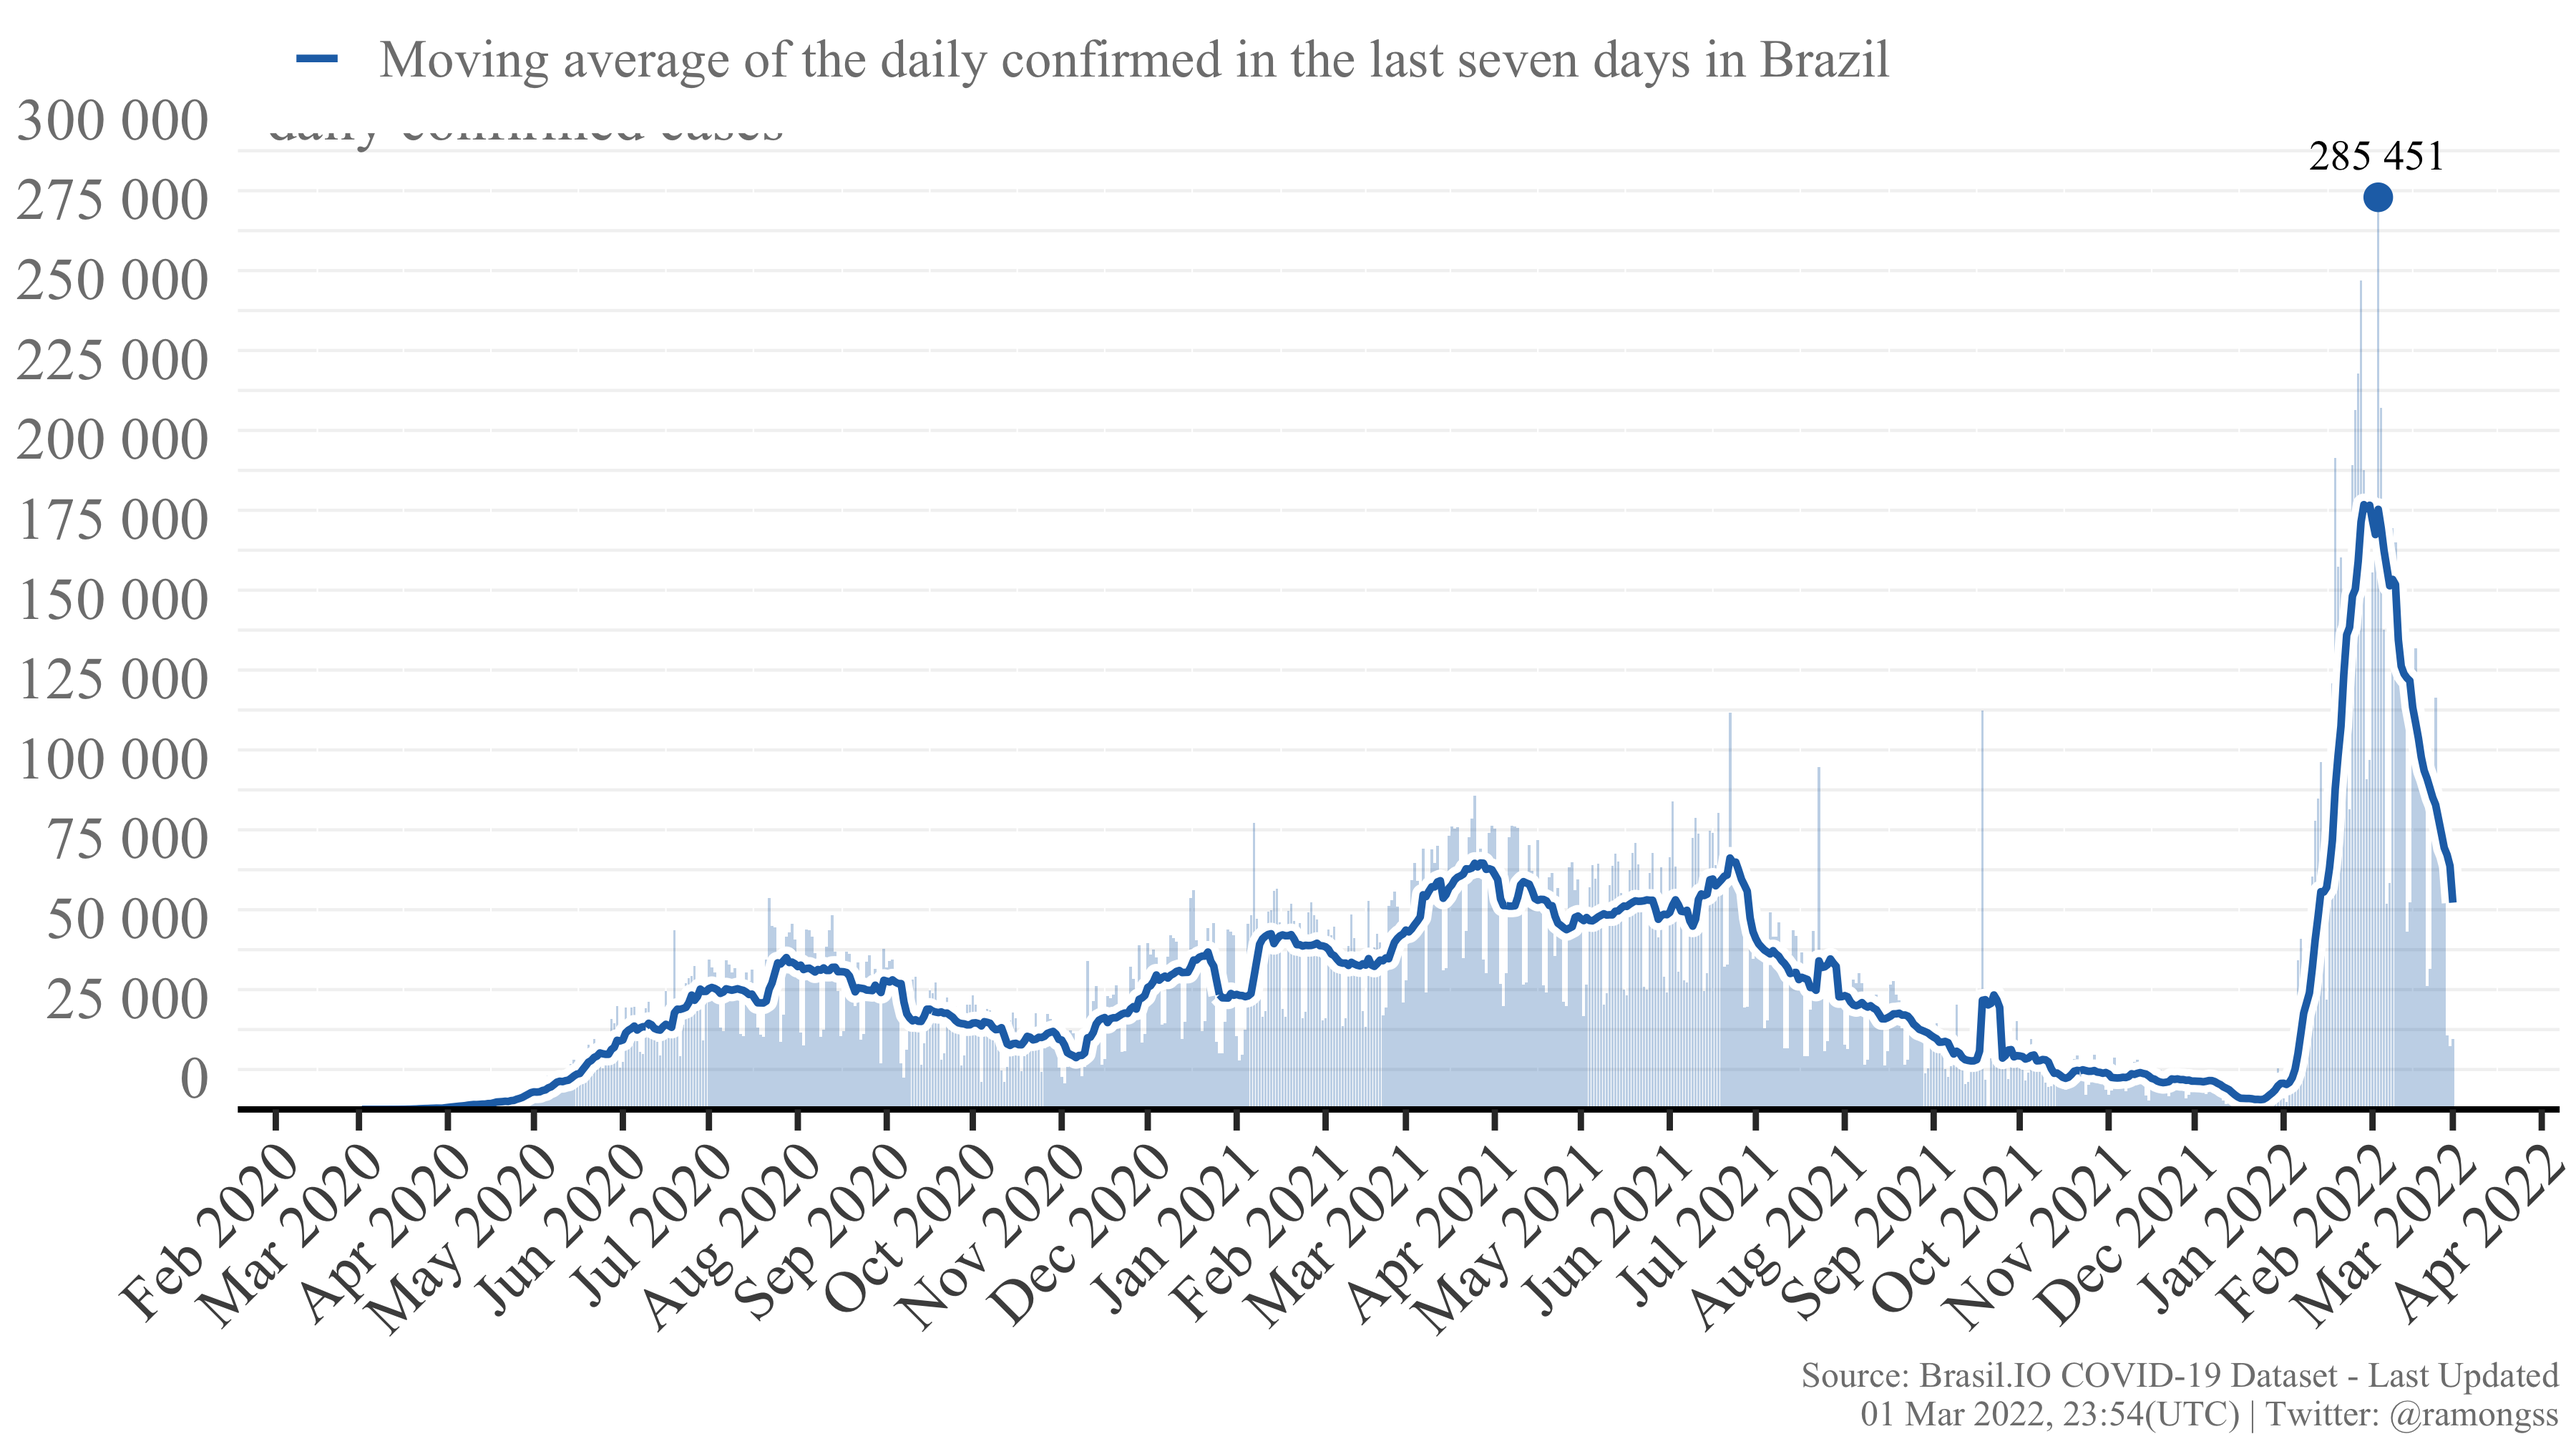
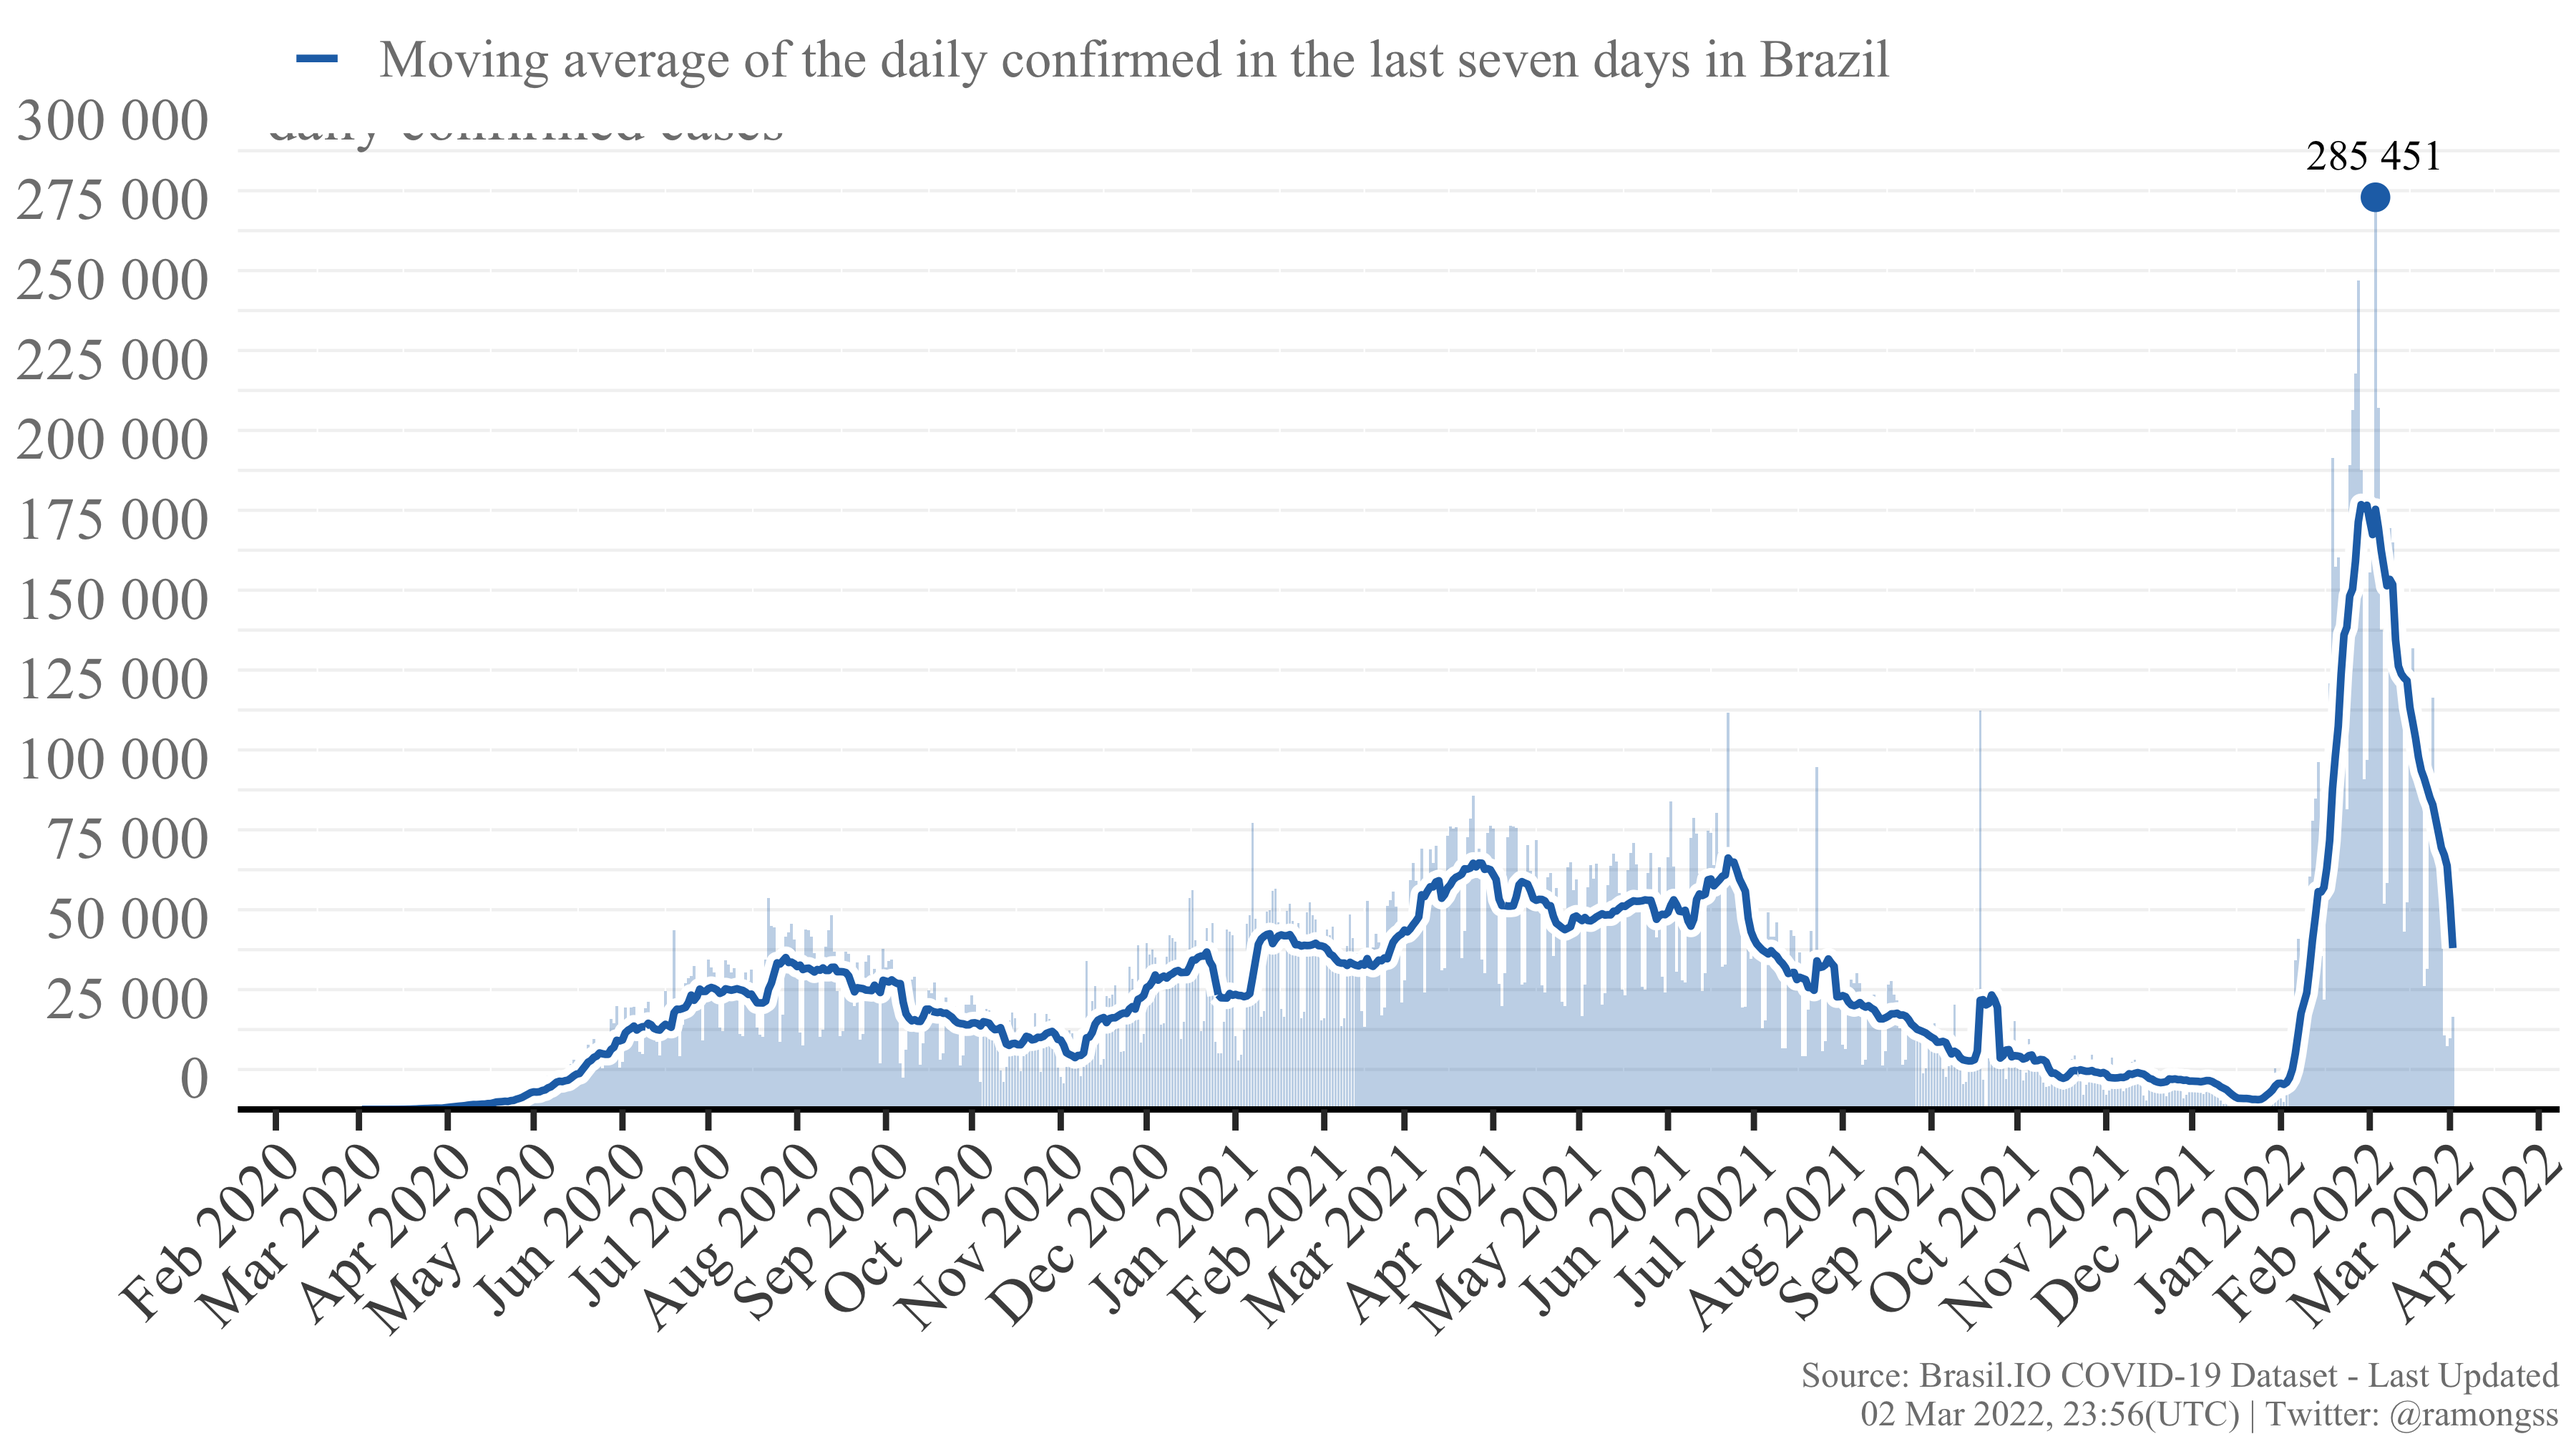
Re-build README.Rmd

diff --git a/README.md b/README.md
@@ -27,8 +27,8 @@ download_brasilio_table <- function(dataset = "covid19", table_name){
 
 ## COVID-19 Confirmed cases
 
-Currently, Brazil has a total of **28,820,007** confirmed cases at **01
-Mar, 2022**, with **21,960** new confirmed cases. The daily maximum
+Currently, Brazil has a total of **28,849,276** confirmed cases at **02
+Mar, 2022**, with **28,878** new confirmed cases. The daily maximum
 incidence was **285,451** confirmed cases at **03 Feb, 2022**. Here
 follows the Figure showing the confirmed case incidence as the bars, and
 the line as the moving average of the last 7 days.
@@ -37,8 +37,8 @@ the line as the moving average of the last 7 days.
 
 ## COVID-19 Deaths
 
-Currently, Brazil has a total of **649,947** deaths at **01 Mar, 2022**,
-with **261** new deaths. The daily maximum deaths incidence was
+Currently, Brazil has a total of **650,306** deaths at **02 Mar, 2022**,
+with **339** new deaths. The daily maximum deaths incidence was
 **4,148** deaths at **08 Apr, 2021**. Here follows the Figure showing
 the deaths incidence as the bars, and the line as the moving average of
 the last 7 days.
@@ -49,4 +49,4 @@ the last 7 days.
 
 This page is daily updated automatically using Github Actions.
 
-*Last update: 01 Mar 2022, 23:54 (UTC).*
+*Last update: 02 Mar 2022, 23:56 (UTC).*
